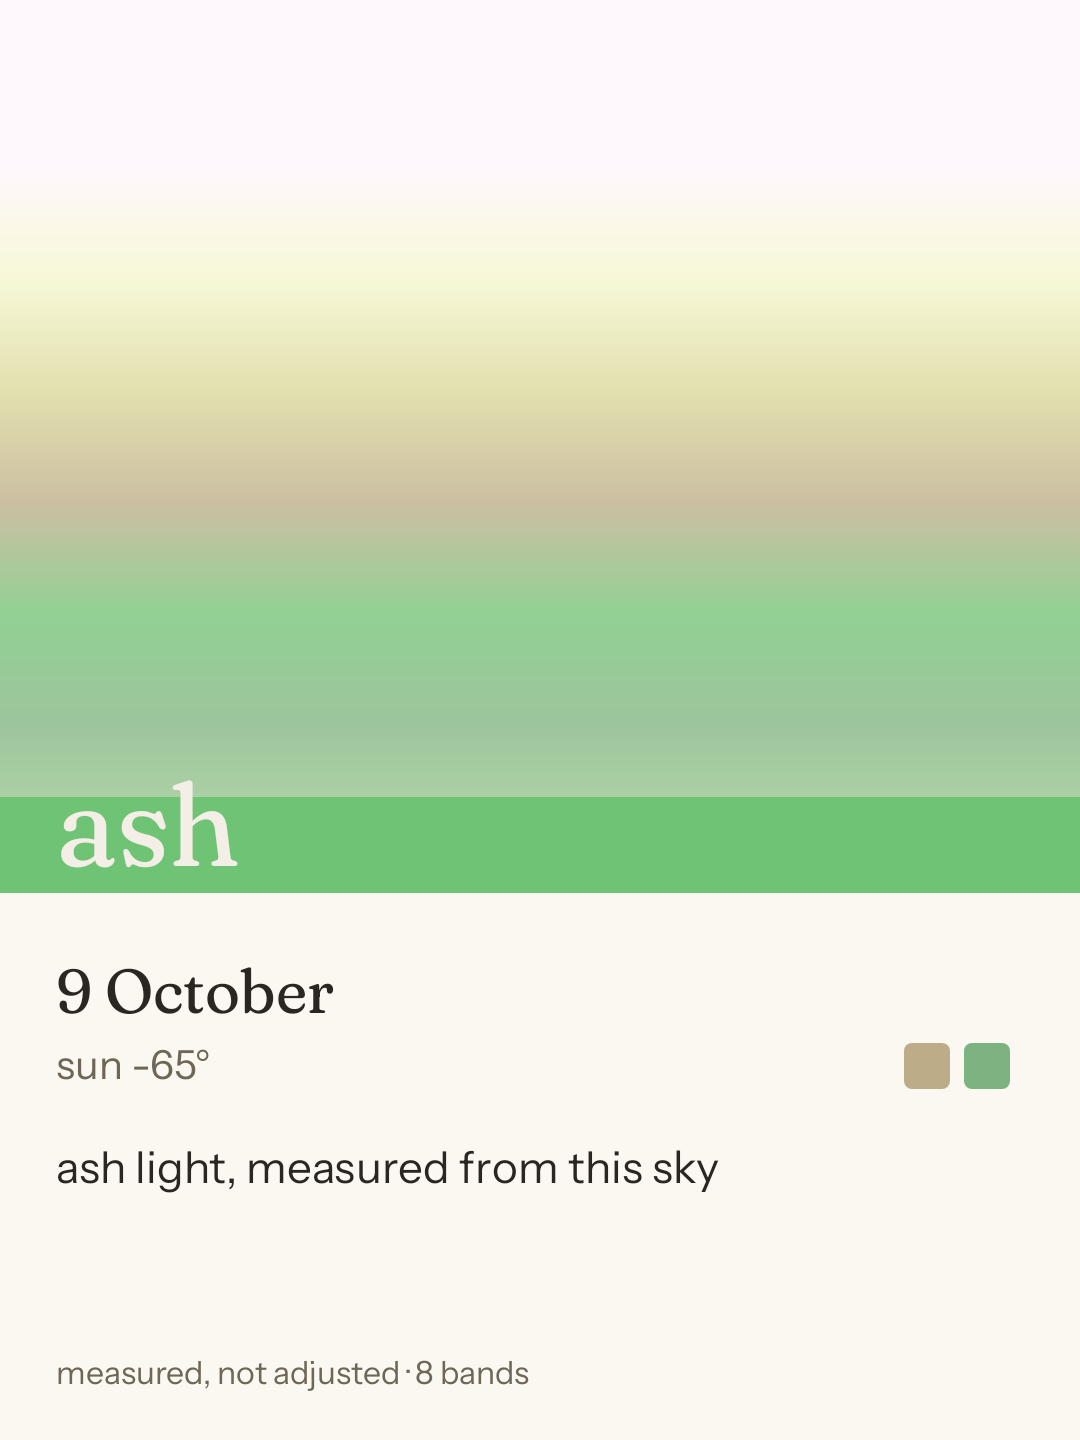
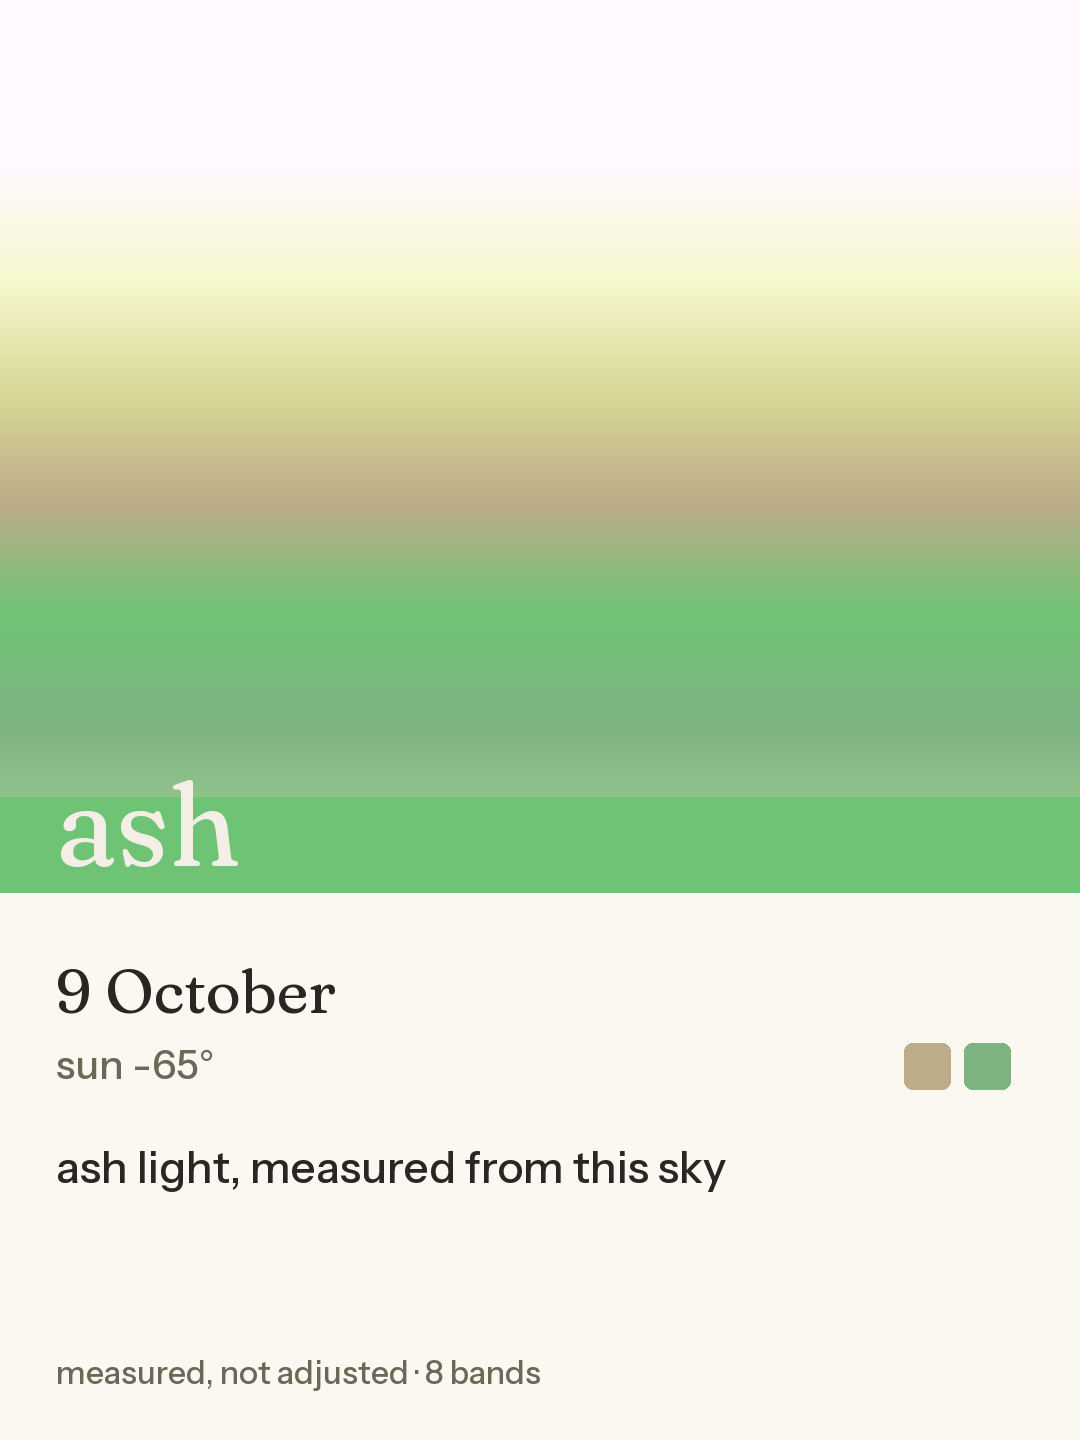
docs: make every published figure true of the tree it ships in
Regenerated both card PNGs from their committed records with the new
--from-record mode, so the field rows now measure exactly the blend the
card claims. The Card screenshot predates the field-draw fix and says so.

Corrections from the final reviews: the provenance file's dump command was
one that cannot work (adb pull cannot read an app-private directory); the
privacy bullet under-enumerated where the coordinate pair still lives and
omitted the shipped :core KDoc; the 4.7s/6.1s pair cites a JPEG that is not
committed; the fastest of the three timed shots is a rejected line, so the
template write is what landed at 12.4s and three documents called it the
model's; "the one number you cannot recompute" overstated; the sRGB
boundary was stated as "below" where the code says "at or below"; the spec
said three probes over a five-row table and still instructed a README
reporting shape the README declines with a reason; the mockup carried a
ninth chrome tone the app correctly does not have.

Recounted after the fix round: five PNG goldens (was four), 89 core tests,
48 app tests, 20 Python tests (were 87/39/13), and the debug APK at this
commit is 61,231,992 bytes where the previous build was 118,396 larger.

diff --git a/design/evenlight-mockups.html b/design/evenlight-mockups.html
@@ -10,7 +10,7 @@
 <style>
   :root{
     --paper:#F4EFE6; --card:#FBF8F2; --ink:#2A2622; --muted:#6E6656; --hair:#D9D0BF;
-    --n-surface:#17150F; --n-text:#E9E3D6; --n-hair:#332F26; --n-muted:#8C8471;
+    --n-surface:#17150F; --n-text:#E9E3D6; --n-hair:#332F26;
     --r-pill:999px; --r-card:20px; --r-chip:12px;
   }
   *{box-sizing:border-box;margin:0;padding:0;-webkit-font-smoothing:antialiased}

diff --git a/README.md b/README.md
@@ -33,7 +33,14 @@ index under it, the latest card, and a shutter that is never disabled at any hou
 
 ![Card](docs/images/screen-card.png)
 
-**Card.** The rendered card, plus `raw photo` and `share`. `ui/CardScreen.kt`, `card/CardRenderer.kt`.
+**Card.** The rendered card, plus `raw photo` and `share`. `ui/CardScreen.kt`, `card/CardRenderer.kt`. This
+screenshot is the one image here that predates a fix: it was captured before the field-draw change in `fa65f73`,
+so its colour field still carries the ~75% coverage that commit removes. The two standalone cards further down are
+rendered after it, and their field rows measure exactly the blend.
+
+**Read the pixels before you read anything else in this file.** All five screens above come from the emulator's
+synthetic camera scene, not from a sky, and the two cards further down are rendered from records of that same scene.
+There is no real evening in this repository.
 
 ![Stack](docs/images/screen-stack.png)
 
@@ -44,8 +51,7 @@ index under it, the latest card, and a shutter that is never disabled at any hou
 **Setup.** A name and two numbers. Nothing is looked up and nothing is fetched, because nothing can be.
 `ui/SetupScreen.kt`, `data/Settings.kt`.
 
-**Read the pixels before you read anything else in this file.** All five screens and both cards above come from the
-emulator's synthetic camera scene, not from a sky. There is no real evening in this repository. The app has never
+**Every screen here is a synthetic scene, and both cards are drawn from records of it.** The app has never
 been pointed at a balcony, and there is deliberately no strip of cards here presented as a run of evenings. They are
 not one continuous session, either: the two numbers in the Setup fields are the example that screen's own hint
 prints, so they are not the pair that produces the sunset time the other four show.
@@ -57,19 +63,27 @@ download a gigabyte to check the claim.
 
 ```bash
 python tools/python/skycard.py photo.jpg -o card.png --print-json
+python tools/python/skycard.py --from-record docs/data/wording-sample/2026-10-10-attempt-5.json -o card.png
 ```
 
-It prints the eight bands, which band won, and the name, then writes a 1080x1440 card. Needs Python with Pillow
+The second line re-derives a card from a record the app already filed - which band won, the name, the wording, the
+date, the neighbours - so the two card images in this repository are things you can reproduce rather than things you
+have to take on trust. It is also the check that found the bug the last commit in this branch fixes: the app used to
+paint the field with 893 anti-aliased hairlines, and a hairline does not cover the row it names, so every published
+card was 25% washed toward the card surface while the maths was blameless.
+
+The first line prints the eight bands, which band won, and the name, then writes a 1080x1440 card. Needs Python with Pillow
 and nothing else. Timed as whole processes on my box, two runs each: 0.27 s and 0.33 s for a 128x96 fixture, 4.7 s
-and 6.1 s for a 4032x3024 JPEG at 2 MB. That second file is a synthetic gradient with noise in it, not a photograph,
+and 6.1 s for a 4032x3024 JPEG at 2 MB - a file that is not committed here, so that pair is my measurement rather than
+yours to check. That second file is a synthetic gradient with noise in it, not a photograph,
 and the gap between its two runs is why both numbers are there instead of one.
 
-The two implementations are tested against the same four PNG goldens in `fixtures/`, pinned by
+The two implementations are tested against the same five PNG goldens in `fixtures/`, pinned by
 `core/src/test/kotlin/com/burry071/evenlight/core/FixtureEquivalenceTest.kt` and mirrored by
 `tools/python/test_skycard.py`, so agreement is transitive and neither language can drift without a failure:
 
 ```bash
-python tools/python/test_skycard.py -v      # 13 tests
+python tools/python/test_skycard.py -v      # 20 tests
 ```
 
 ## The measurement is the code, not a description of it
@@ -190,8 +204,10 @@ that half is my measurement, and this repository is honest enough to say which h
 
 What is in it is `docs/data/wording-sample/three-timed-shots.txt`: three shots on the shipping build, fired about a
 minute apart, each with the time its record first appeared and the time it was written last. The pre-model record
-write lands 0.13-2.8 s after the capture tap and the model's rewrite 11.3-21.4 s after that write, so a second shot
-twelve seconds later arrives while the first call is still inside the engine. One engine, two callers.
+write lands 0.13-2.8 s after the capture tap and the final write 11.3-21.4 s after that write, so a second shot
+twelve seconds later arrives while the first call is still inside the engine. Two of those three finals are the model's
+own accepted lines (24.2 s and 14.3 s after the tap); the fastest, 12.4 s, is a rejected line, so what landed that
+fast was the template write. One engine, two callers.
 
 Two things follow, and both are in the open rather than in a footnote. `withTimeoutOrNull` around a blocking native
 call bounds nothing: measured on the same emulator, a call that ran 10.5 s still delivered its line past the 10 s
@@ -209,6 +225,11 @@ have published without looking.
 
 ![A card whose line claims stars in a scene that has none](docs/images/card-2026-10-10.png)
 
+That card is reproducible: `python tools/python/skycard.py --from-record
+docs/data/wording-sample/2026-10-10-attempt-5.json -o card.png` draws it from the record the app filed, and its 797
+visible field rows measure exactly `blendOf(bands, fieldBlend(y))` - the claim two reviews could not reproduce from
+the images the repo used to ship.
+
 The model wrote `the stars shimmered beneath an ash-lit sky.` There are no stars in that scene and the record
 measures none; the only facts in this pipeline are eight colours and one computed altitude. The gate checks form,
 not truth, and it can only check form. So look at what the model could not do: the name `ash`, the eight bands,
@@ -220,15 +241,20 @@ so that date's card carries the template line the fallback writes:
 
 ![A card using the template fallback](docs/images/card-2026-10-09.png)
 
+That one comes from `python tools/python/skycard.py --from-record
+docs/data/wording-sample/2026-10-09-attempt-14.json -o card.png`.
+
 ## The costs, before you discover them
 
 All timings in this section are from an x86_64 API-35 emulator (1080x2340 @ 440 dpi, 3,048,052 kB `MemTotal`).
 **The target device is unmeasured.** I am not going to quote a phone I did not read, and I am not going to repeat
 the number I remembered about it instead.
 
-- The debug APK is 61,350,388 bytes (58.5 MiB) and contains zero model weights. That is the LiteRT-LM library's
-  native code, compiled for four ABIs. Read it as "about 58.5 MiB": two builds of this same tree, half an hour
-  apart with no source change between them, came out 62 bytes apart.
+- The debug APK at this commit is 61,231,992 bytes (58.4 MiB) and contains zero model weights. That is the
+  LiteRT-LM library's native code, compiled for four ABIs. Read it as "about 58.4 MiB": the build before the final
+  fix round measured 61,350,388 bytes, 118,396 bytes larger, and two builds of one tree half an hour apart with no
+  source change between them came out 62 bytes apart. I have not split that difference up, so I am not going to
+  explain it here.
 - The model file is 584,417,280 bytes and it is not in this repository: GitHub's hard per-file limit is 100 MB, so
   it cannot be. `models/GET_MODEL.md` has the URL, the filename, the byte size, the sha256, and the one thing you
   have to do in a browser yourself.
@@ -243,7 +269,7 @@ the number I remembered about it instead.
 - Two variable fonts are bundled, 554 KB, with their OFL texts in `LICENSES/`. Android cannot address a weight axis
   through the API people expect, so the variation is pinned in `<font-family>` XML under `app/src/main/res/font/`
   and loaded through `ResourcesCompat`.
-- Test counts on this host: 87 Kotlin core tests, 39 app tests, 13 Python tests.
+- Test counts on this host: 89 Kotlin core tests, 48 app tests, 20 Python tests.
 
 ## Permissions
 
@@ -302,9 +328,11 @@ The holes, stated exactly:
   dark, so a dim sky produces a confident card.
 - **Nothing in a record says where you were.** No photo, no coordinates, no place name: those live in
   `settings.json` on the device, which is not committed and is not part of the sample. That is a claim about
-  records, not about this repository: the design spec and the plan both name the coordinate pair the sunset
-  constants were computed against, and `SunWindowTest.kt` and `StoreTest.kt` use that pair as fixture data. The
-  screenshots do not carry it - the Setup fields show the example from their own hint.
+  records, not about this repository, and the repository itself is the leakier place: the coordinate pair the sunset
+  constants were computed against appears in the design spec, in the plan, in `SunWindowTest.kt` and `StoreTest.kt` as
+  fixture data, in a KDoc comment in shipped `:core` (`SunWindow.kt`), and in the mockup HTML and its PNG; a city is
+  named in two main-source comments (`EvenlightController.kt`, `EvenlightNav.kt`). The screenshots do not carry it -
+  the Setup fields show the example from their own hint.
 - **The visible gaps are not visible in any image here.** The stack screenshot says `2 evenings · 0 holes`, because
   the two synthetic evenings are on consecutive days. The hole logic is `ui/StackDays.kt` and it is covered by
   `StackDaysTest`, not by a picture.
@@ -315,12 +343,13 @@ The holes, stated exactly:
 
 You need JDK 17 or newer, an Android SDK with API 35, and Gradle 8.8. `gradle/wrapper` is not committed in this
 repository - a known gap I did not get to - so there is no `./gradlew`; use your own Gradle. The app installs on
-Android 8.1 and up (`minSdk = 27`).
+Android 8.1 and up (`minSdk = 27`) and the manifest requires a camera device, so it will not install on a
+device without one.
 
 ```bash
 export ANDROID_HOME=/path/to/Android/Sdk     # or create local.properties with sdk.dir=...
 gradle :app:assembleDebug                    # first run needs network for dependencies
-gradle :core:test :app:testDebugUnitTest     # 87 + 39 tests
+gradle :core:test :app:testDebugUnitTest     # 89 + 48 tests
 gradle :app:installDebug                     # or: adb install -r app/build/outputs/apk/debug/app-debug.apk
 ```
 

diff --git a/docs/dev-post.md b/docs/dev-post.md
@@ -64,8 +64,9 @@ Write one line of four to eight words that contains the word brassy. Do not use 
 colour that is not listed.
 ```
 
-The system prompt is one sentence about what it may do, plus a ban on digits, brackets and newlines. Then a verifier
-reads the reply. It rejects the line if the reply is not lowercase, contains a digit, is more than eight words or
+The system prompt started as one sentence about what it may do, plus a ban on digits, brackets and newlines, and the
+verifier that read the reply had the same shape; both halves turned out wrong and both were rewritten, the prompt into
+an allowlist-shaped ask and the gate into the character set below. Then a verifier reads the reply. It rejects the line if the reply is not lowercase, contains a digit, is more than eight words or
 fewer than four, or is missing the word it was given. On rejection, the card uses a template line, `brassy light,
 measured from this sky`, and a counter increments. The card still renders.
 
@@ -107,7 +108,7 @@ all seven as `wording_source: "none"`, which in my schema meant "there is no mod
 on the device. The field could not tell "never consulted" from "asked and got nothing," so any rate built on it was
 uncomputable, and it was wrong in the flattering direction: a model that failed looked like a model that was absent.
 There is a fourth value now, `"no-answer"`, and that makes the two failures separable instead of one share of
-evenings: **did it answer** (12 of 19) and **was that answer valid** (7 of the 12 under the gate that ships - the
+evenings: **did it answer** (12 of 19) and **was that answer valid** (7 of the 12 answers pass today's gate - the
 other five are the four the gate rejected plus the markdown line the old gate wrongly passed). One number about
 latency, one about judgement. Both are recountable from the record files, and the script in
 `docs/data/wording-sample/PROVENANCE.md` prints the 7.
@@ -121,8 +122,10 @@ not in the repo, because I deleted those records when I put the emulator back th
 as my measurement rather than something you can recount.
 
 What is in the repo is `docs/data/wording-sample/three-timed-shots.txt`: three shots on the current build, fired
-about a minute apart, each with the time its record first appeared and the time it was written last. The model's line
-lands between 12.4 s and 24.2 s after the shutter tap, which is 11.3 to 21.4 s after the record already existed. So a
+about a minute apart, each with the time its record first appeared and the time it was written last. The final write
+lands between 12.4 s and 24.2 s after the shutter tap, which is 11.3 to 21.4 s after the record already existed. Two
+of the three are model lines (24.2 s and 14.3 s after the tap); the 12.4 s one is a rejected line, so the fastest
+write in the set was the template, not an answer. So a
 shot taken twelve seconds later arrives while the previous call is still inside the engine. The seven no-answers are
 not a model that refuses. They are one engine and two callers, and the reason the closing path now holds a guard
 across the whole native call rather than across the timeout.
@@ -159,7 +162,7 @@ RSS 1,269 MB, both from the emulator.
 ## How the colour is measured, since that is where the bugs were
 
 The photo is resampled to 64 pixels wide with a hand-written bilinear filter, split into eight bands, and each band
-is averaged per channel. Mean luminance uses the sRGB linearisation, so a value below 0.03928 divides by 12.92 and
+is averaged per channel. Mean luminance uses the sRGB linearisation, so a value at or below 0.03928 divides by 12.92 and
 anything above it goes through a power of 2.4. The winning band is the one with the largest gap between its biggest
 and smallest channel; a tie goes to the brighter band.
 
@@ -179,8 +182,8 @@ identity. That is why the odd-sized fixture exists.
 That disagreement showed up as 13,161 differing `(row, band-pair, channel)` outcomes when the blend formula was
 brute-forced instead of rendered - the kind of thing that looks like a rendering bug until you notice the two sides
 round exact `.5` ties opposite ways (row 57, the pair 0 and 47: one language says 0, the other says 1). That sweep
-was a throwaway probe and its script is not in this repository, so this is the one number in this post you cannot
-recompute. What you can check is the fix: `fieldBlend` returns a `Double`, and no cast quantises it on the way to a
+was a throwaway probe and its script is not in this repository, so this is the one number in the post whose derivation
+script you cannot even look at - the emulator timings above are equally yours to take on trust. What you can check is the fix: `fieldBlend` returns a `Double`, and no cast quantises it on the way to a
 pixel. Canonical precision is now 64-bit on both sides, and the Python port is told never to touch
 `numpy.float32`.
 
@@ -197,12 +200,12 @@ python tools/python/skycard.py photo.jpg -o card.png --print-json
 ```
 
 It prints the eight bands, which band won, and the name, then writes a card. Timed as whole processes on this box,
-two runs each: 0.27 s and 0.33 s for a 128x96 fixture, 4.7 s and 6.1 s for a 4032x3024 JPEG at 2 MB. That second file
-is a synthetic gradient with noise in it at the resolution a common phone shoots at, not a photograph - nothing in
-this repo is a real sky yet - and the spread between its two runs is why I give both numbers instead of a confident
+two runs each: 0.27 s and 0.33 s for a 128x96 fixture, 4.7 s and 6.1 s for a 4032x3024 JPEG at 2 MB (not committed - that second file
+is a synthetic gradient with noise in it at the resolution a common phone shoots at, not a photograph, and nothing in
+this repo is a real sky yet), and the spread between its two runs is why I give both numbers instead of a confident
 one. The band arithmetic is the same arithmetic as the Kotlin, line for line, and a test on both sides asserts
-against the same four PNG fixtures, so agreement is transitive and neither language can drift without a failure.
-87 Kotlin core tests, 39 app tests, 13 Python tests.
+against the same five PNG fixtures, so agreement is transitive and neither language can drift without a failure.
+89 Kotlin core tests, 48 app tests, 20 Python tests.
 
 ## The costs, stated before you discover them
 
@@ -218,9 +221,10 @@ against the same four PNG fixtures, so agreement is transitive and neither langu
   10 s give-up marker belongs re-checked there too, because on the emulator it turned out to bound nothing:
   `withTimeoutOrNull` cannot interrupt a blocking native call, and a call that ran 10.5 s still delivered its line
   past the marker.
-- The debug APK is 61,350,388 bytes (58.5 MiB) with zero model weights in it. That is the inference library's native
-  code, compiled for four ABIs. Two builds of the same tree half an hour apart came out 62 bytes apart, so read the
-  figure as "about 58.5 MiB".
+- The debug APK at this commit is 61,231,992 bytes (58.4 MiB) with zero model weights in it. That is the inference
+  library's native code, compiled for four ABIs. The build before the last round of fixes was 61,350,388 bytes, and
+  two builds of one tree half an hour apart came out 62 bytes apart, so read the figure as "about 58.4 MiB" rather
+  than as a checksum.
 - Two variable fonts are bundled, 554 KB. Android cannot address a weight axis through the API people expect
   (`fontFeatureSettings` is for OpenType features, and `wght` is not one), so the variation is pinned in a
   `<font-family>` XML and loaded through `ResourcesCompat`, because `Resources.getFont` throws on a family file.
@@ -247,7 +251,7 @@ set is still exactly `{CAMERA}`. Nothing leaves the phone by itself, which the m
 not my intention.
 
 There is no real evening in this repo yet. Every card and every record I published came from an emulator pointed at
-its own synthetic scene, and the four PNGs under `fixtures/` are drawn, not photographed. The first sky this app
+its own synthetic scene, and the five PNGs under `fixtures/` are drawn, not photographed. The first sky this app
 measures is the one outside my window, and if I do not shoot it, the stack will show that too - the holes are the
 part of the design that survives my own laziness.
 

diff --git a/docs/data/wording-sample/PROVENANCE.md b/docs/data/wording-sample/PROVENANCE.md
@@ -1,8 +1,14 @@
 # The 19 shots behind the wording numbers
 
 These are real `EveningRecord` files, dumped from the app's own data directory with
-`adb pull /data/com.burry071.evenlight/files/evenlight/records`. Every failure rate the README and the DEV post
-publishes is arithmetic over exactly these files, so a reader can recount them instead of taking my word:
+
+```
+adb exec-out "run-as com.burry071.evenlight tar c files/evenlight" > evenlight.tar
+```
+
+Plain `adb pull` cannot read an app-private directory, which is why the route goes through `run-as`. Every
+failure rate the README and the DEV post publishes is arithmetic over exactly these files, so a reader can
+recount them instead of taking my word:
 
 ```
 python - <<'PY'
@@ -48,8 +54,10 @@ these files - the coordinates and the place live only in `settings.json` on the 
 
 `three-timed-shots.txt` is the console output of three shots fired about a minute apart on the build that ships,
 read off the device while it ran. Each line gives the record's first write and its final write after the wording
-pass, so the model's line lands 21.4 s, 11.3 s and 14.2 s after the record existed, and 24.2 s, 12.4 s and 14.3 s
-after the tap. Nothing else in this set has second resolution.
+pass, so the final write lands 21.4 s, 11.3 s and 14.2 s after the record existed, and 24.2 s, 12.4 s and 14.3 s
+after the tap. Two of those three are the model's own lines (shots 1 and 3, 24.2 s and 14.3 s after the tap); the
+fastest one, shot 2 at 12.4 s, is a rejected line, so what landed at that speed was the template write, not a model
+answer. Nothing else in this set has second resolution.
 
 What a reader *can* recount from the JSON is the minute-resolution pattern behind the seven silences, because every
 record carries `shutter` to the minute:

diff --git a/docs/superpowers/specs/2026-10-07-evenlight-design.md b/docs/superpowers/specs/2026-10-07-evenlight-design.md
@@ -143,7 +143,7 @@ the source of truth and the plan quotes its values rather than restating them al
 
 ## 7. The model — what it is for, decided from measurement
 
-Three probes, all run before any product code.
+Five probes, all run before any product code.
 
 | design | mechanism | result |
 |---|---|---|
@@ -168,7 +168,10 @@ line from a name it is handed.** It may not pick, rank, order, or measure.
 lowercase line of 4–8 words that must contain the chosen name verbatim.
 **Verifier, in order:** reject if the line contains `[0-9]`, `#`, `<`, `{`, `(`, a newline, more than 8
 words, or if the chosen name is absent from it. On rejection → template line, and `wording_rejected++`.
-The card still renders. **The README reports `wording_rejected/wording_total` as a result, not a footnote** —
+The card still renders. **The README reports the wording rates as a result, not a footnote** —
+(v2.1 note, 2026-10-10: the shipped README reports the counts split by provenance rather than as one
+`wording_rejected/wording_total` fraction, and says why at its own §on the wording gate. This instruction is
+superseded by that; the decision it was protecting — that the rate is published, not buried — stands.)
 a rejection rate on a 1B model is a real finding about small models and is the honest version of "AI writes
 your journal".
 
